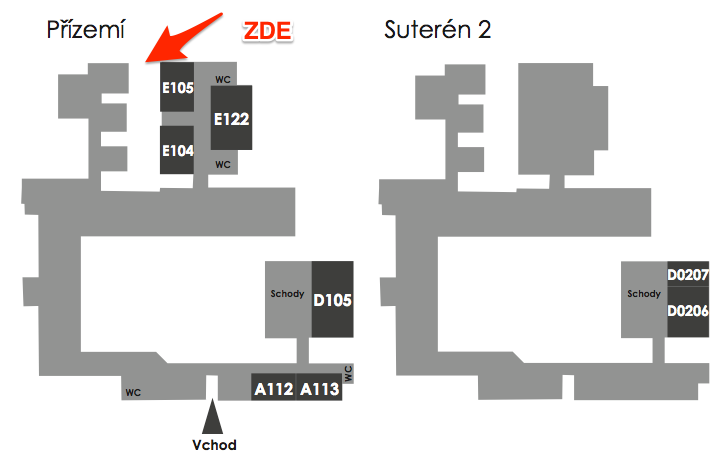
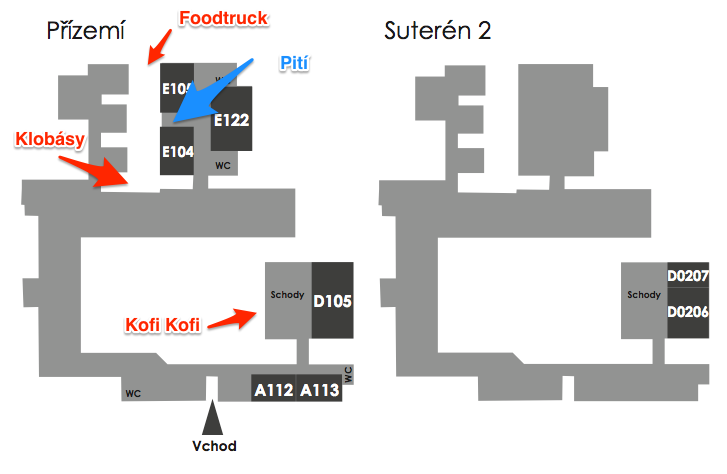
umisteni vseho obcerstveni

diff --git a/data/2015/obcerstveni.md b/data/2015/obcerstveni.md
@@ -1,6 +1,8 @@
 Občerstvení
 -----------
 
+<img src="/static/img/foodtruck_location.png" alt="Food location" style="max-width:100%"/>
+
 Občerstvení pro letošní ročník Barcamp Brno zajistí MY FOOD prostřednictvím svého Foodtrucku.
 
 <img src="/static/img/foodtruck_photo.jpg" alt="MyFood truck" style="max-width:100%"/>
@@ -18,5 +20,3 @@ Cena za oběd bude **99 Kč**.
 Oběd si nemusíte rezervovat dopředu, ale objednat si jej budete moci přímo na místě ve Foodtrucku. Kromě oběda pro Vás bude v MY FOOD trucku nachystáno spoustu dalších dobrot. Můžete se tak zastavit kdykoli dostanete hlad a nebo na něco chuť.
 
 Kde MY FOOD truck najdete?
-
-<img src="/static/img/foodtruck_location.png" alt="MyFood truck" style="max-width:100%"/>
